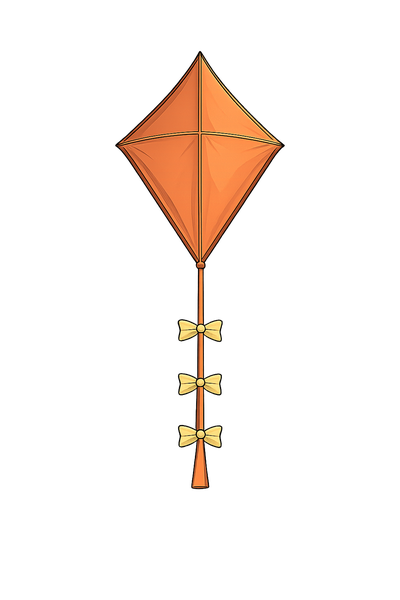
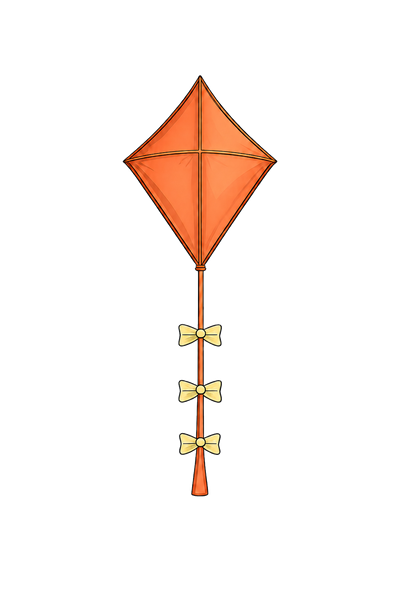
feat(vigilancia): +2 pares (verde musgo, vinho) e terracota regerada — 8 pares (v2.62.0)
dE Lab alvo x distrator (medido 02/ago):
  P04 verde salvia 22,8 | P01 ameixa 19,3 | P03 terracota 14,3 (era 19,4)
  P07 verde musgo  13,8 | P02 azul 13,0   | P08 vinho 11,3

- escada dos 10 niveis refeita: os 6 pares de tom entram em ordem de dificuldade
  medida (niveis 1-6), os 2 mais dificeis voltam com arranjo irregular (7-8),
  lacos no 9 e faixa diagonal no 10
- PIPA_V=3 (cache-bust)

Claude-Session: https://claude.ai/code/session_01X2pHqBoMmx3RYe9vJdx7tp

Changed region(s): [[0.3, 0.09, 0.72, 0.84]]

diff --git a/lib/vigilancia-dados.ts b/lib/vigilancia-dados.ts
@@ -13,14 +13,18 @@ export interface Par {
 export interface Fundo { id: string; arquivo: string; complexidade: number }
 
 export const PARES: Par[] = [
-  { pairId: "P01", nome: "Ameixa suave", categoria: "tom", atributoDiferencial: "corCorpo", dificuldadeVisual: 3, permiteModoSemCor: false,
+  { pairId: "P01", nome: "Ameixa suave", categoria: "tom", atributoDiferencial: "corCorpo", dificuldadeVisual: 2, permiteModoSemCor: false,
     A: { id: "P01_A", arquivo: "P01_A.png", descricao: "ameixa suave clara" }, B: { id: "P01_B", arquivo: "P01_B.png", descricao: "ameixa suave escura" } },
-  { pairId: "P02", nome: "Azul ardósia", categoria: "tom", atributoDiferencial: "corCorpo", dificuldadeVisual: 4, permiteModoSemCor: false,
+  { pairId: "P02", nome: "Azul ardósia", categoria: "tom", atributoDiferencial: "corCorpo", dificuldadeVisual: 5, permiteModoSemCor: false,
     A: { id: "P02_A", arquivo: "P02_A.png", descricao: "azul ardósia claro" }, B: { id: "P02_B", arquivo: "P02_B.png", descricao: "azul ardósia escuro" } },
-  { pairId: "P03", nome: "Terracota", categoria: "tom", atributoDiferencial: "corCorpo", dificuldadeVisual: 2, permiteModoSemCor: false,
+  { pairId: "P03", nome: "Terracota", categoria: "tom", atributoDiferencial: "corCorpo", dificuldadeVisual: 3, permiteModoSemCor: false,
     A: { id: "P03_A", arquivo: "P03_A.png", descricao: "terracota claro" }, B: { id: "P03_B", arquivo: "P03_B.png", descricao: "terracota escuro" } },
   { pairId: "P04", nome: "Verde sálvia", categoria: "tom", atributoDiferencial: "corCorpo", dificuldadeVisual: 1, permiteModoSemCor: false,
     A: { id: "P04_A", arquivo: "P04_A.png", descricao: "verde sálvia claro" }, B: { id: "P04_B", arquivo: "P04_B.png", descricao: "verde sálvia escuro" } },
+  { pairId: "P07", nome: "Verde musgo", categoria: "tom", atributoDiferencial: "corCorpo", dificuldadeVisual: 4, permiteModoSemCor: false,
+    A: { id: "P07_A", arquivo: "P07_A.png", descricao: "verde musgo claro" }, B: { id: "P07_B", arquivo: "P07_B.png", descricao: "verde musgo escuro" } },
+  { pairId: "P08", nome: "Vinho", categoria: "tom", atributoDiferencial: "corCorpo", dificuldadeVisual: 6, permiteModoSemCor: false,
+    A: { id: "P08_A", arquivo: "P08_A.png", descricao: "vinho claro" }, B: { id: "P08_B", arquivo: "P08_B.png", descricao: "vinho escuro" } },
   { pairId: "P05", nome: "Verde — laços", categoria: "quantidade de laços", atributoDiferencial: "qtdLacos", dificuldadeVisual: 4, permiteModoSemCor: true,
     A: { id: "P05_A", arquivo: "P05_A.png", descricao: "verde com 2 laços" }, B: { id: "P05_B", arquivo: "P05_B.png", descricao: "verde com 3 laços" } },
   { pairId: "P06", nome: "Faixa diagonal", categoria: "orientação", atributoDiferencial: "orientacaoFaixa", dificuldadeVisual: 4, permiteModoSemCor: true,
@@ -37,14 +41,15 @@ export const FUNDOS: Fundo[] = [
 // §16 Níveis visuais — 8 pipas SEMPRE; muda par (semelhança), arranjo (distância) e fundo.
 export interface NivelVisual { nivel: number; pairId: string; arranjo: Arranjo; fundo: string }
 export const NIVEIS: NivelVisual[] = [
+  // ordem pelo ΔE Lab medido em 02/ago: P04 22,8 · P01 19,3 · P03 14,3 · P07 13,8 · P02 13,0 · P08 11,3
   { nivel: 1,  pairId: "P04", arranjo: "compacto",  fundo: "BG01" },
-  { nivel: 2,  pairId: "P04", arranjo: "expandido", fundo: "BG01" },
-  { nivel: 3,  pairId: "P03", arranjo: "compacto",  fundo: "BG01" },
-  { nivel: 4,  pairId: "P03", arranjo: "expandido", fundo: "BG02" },
-  { nivel: 5,  pairId: "P01", arranjo: "compacto",  fundo: "BG02" },
-  { nivel: 6,  pairId: "P01", arranjo: "expandido", fundo: "BG02" },
-  { nivel: 7,  pairId: "P02", arranjo: "compacto",  fundo: "BG03" },
-  { nivel: 8,  pairId: "P02", arranjo: "expandido", fundo: "BG03" },
+  { nivel: 2,  pairId: "P01", arranjo: "compacto",  fundo: "BG01" },
+  { nivel: 3,  pairId: "P03", arranjo: "expandido", fundo: "BG02" },
+  { nivel: 4,  pairId: "P07", arranjo: "expandido", fundo: "BG02" },
+  { nivel: 5,  pairId: "P02", arranjo: "expandido", fundo: "BG02" },
+  { nivel: 6,  pairId: "P08", arranjo: "expandido", fundo: "BG03" },
+  { nivel: 7,  pairId: "P02", arranjo: "irregular", fundo: "BG03" },
+  { nivel: 8,  pairId: "P08", arranjo: "irregular", fundo: "BG03" },
   { nivel: 9,  pairId: "P05", arranjo: "compacto",  fundo: "BG04" },
   { nivel: 10, pairId: "P06", arranjo: "irregular", fundo: "BG04" },
 ];
@@ -52,8 +57,8 @@ export const NIVEIS: NivelVisual[] = [
 export const parById = (id: string) => PARES.find((p) => p.pairId === id) ?? PARES[0];
 export const fundoById = (id: string) => FUNDOS.find((f) => f.id === id) ?? FUNDOS[0];
 // Sobe a cada troca de imagem que MANTÉM o nome do arquivo (senão o navegador serve a antiga).
-// v2 = 02/ago/2026: alvos de P01/P02/P04 regerados pela Kamylla (ficaram mais parecidos com o distrator).
-export const PIPA_V = 2;
+// v3 = 02/ago/2026: alvos de P01/P02/P03/P04 regerados + pares novos P07 (verde musgo) e P08 (vinho).
+export const PIPA_V = 3;
 export const imgPipa = (arquivo: string) => `/exercises/vigilancia/pipas/${arquivo}?v=${PIPA_V}`;
 export const imgFundo = (arquivo: string) => `/exercises/vigilancia/fundos/${arquivo}`;
 export const TODAS_IMAGENS = [
